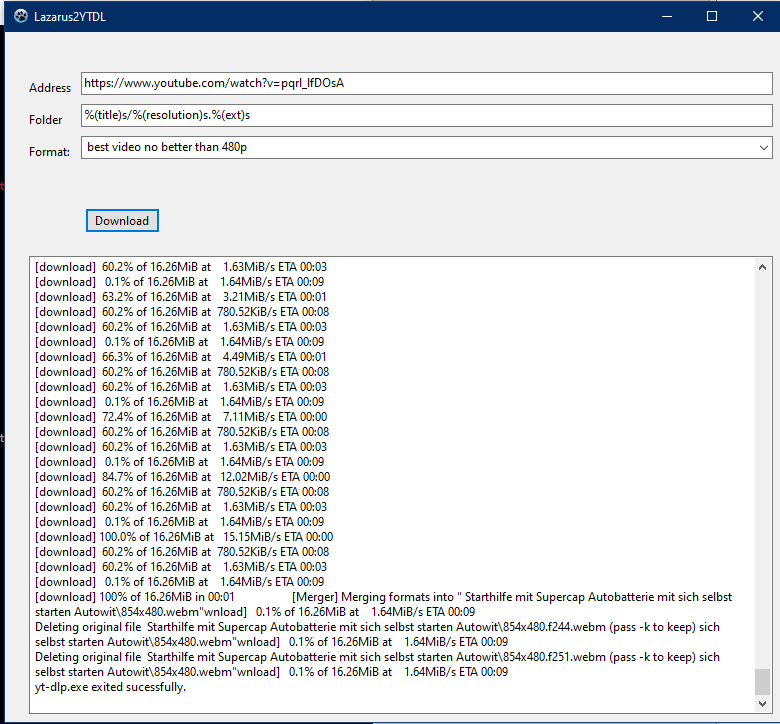
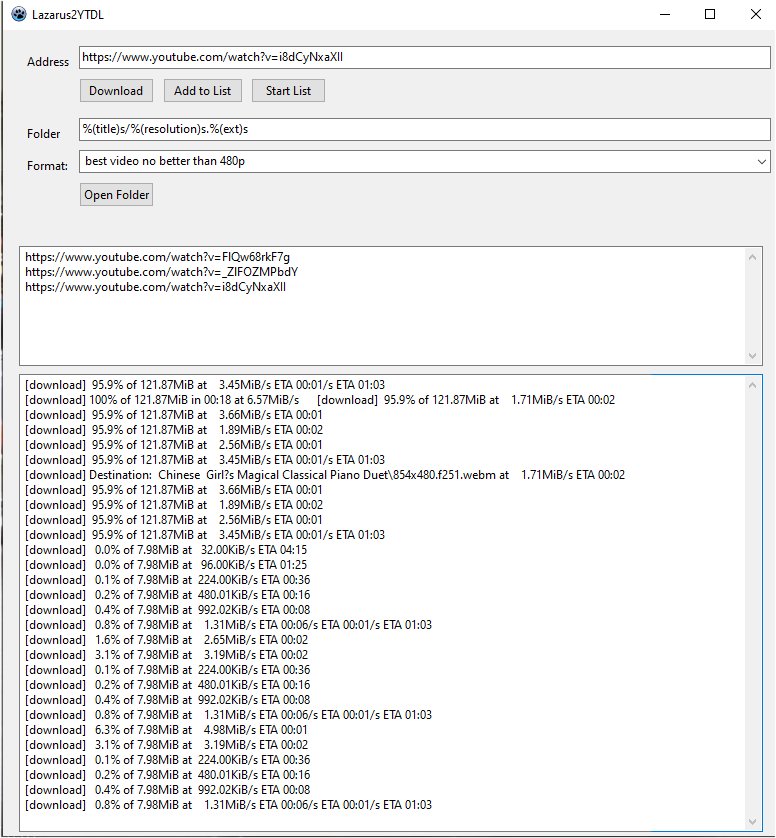
update documentation

Changed region(s): [[0.0, 0.0, 1.0, 1.0]]

diff --git a/README.md b/README.md
@@ -26,6 +26,16 @@ _Optional: Select an Output Format in the ComboBox above the Memo:_
 3. Start download using the Button. All messages from
    yt-dlp should appear in the Memo component.
 
+Hints:
+- You may also download a sequence of addresses.
+  To do so, use the 'Add to List' button to add them to the queue.
+  Once you have all addresses added, start the downloads using the
+  'Start List' button.
+
+- The yt-dlp tool may often require updates. This tool asks every
+  seven days, if you wish to update it. You can also use the
+  'update yt-dlp' Button to trigger an update. 
+
 
 
 Installation:
